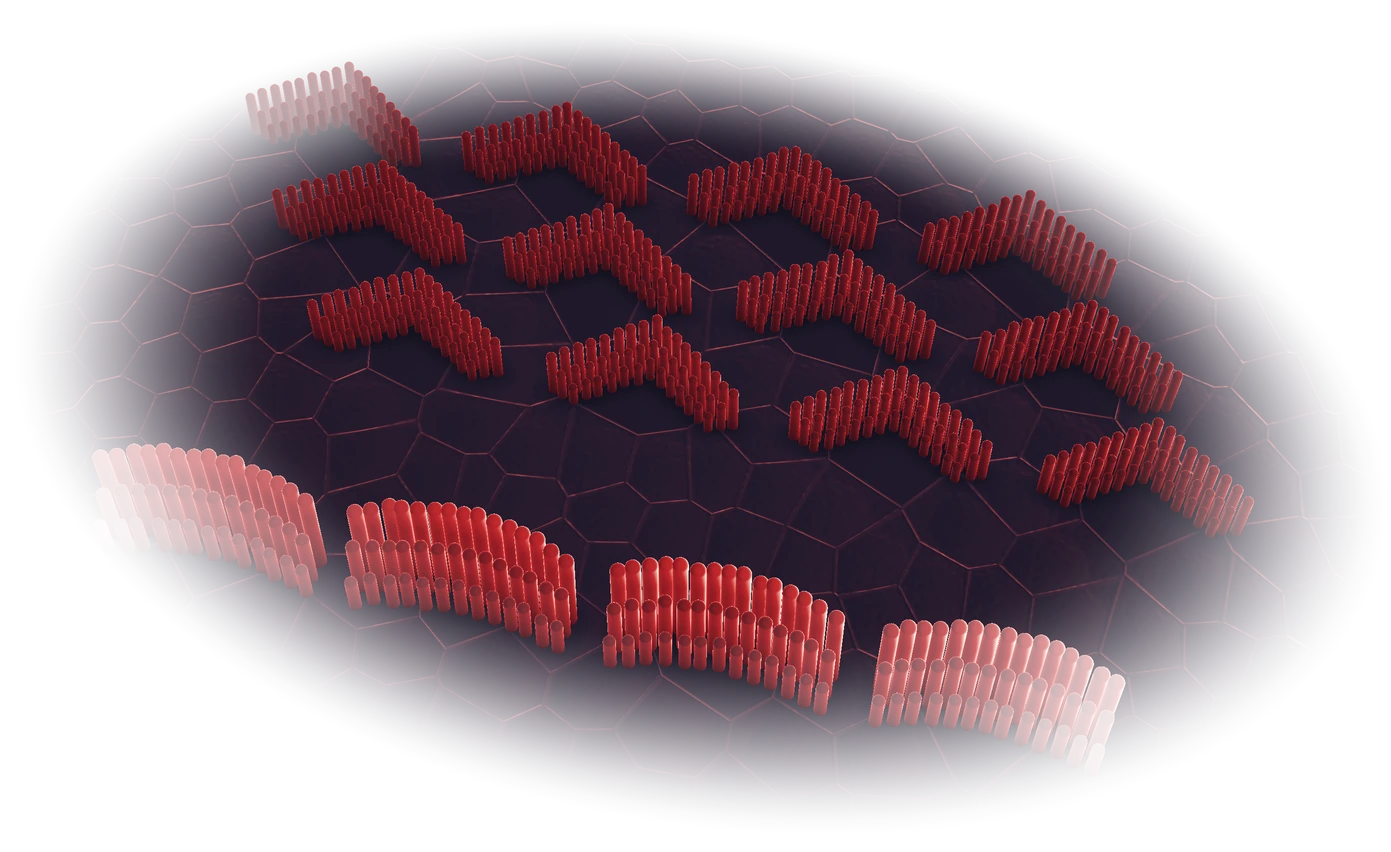
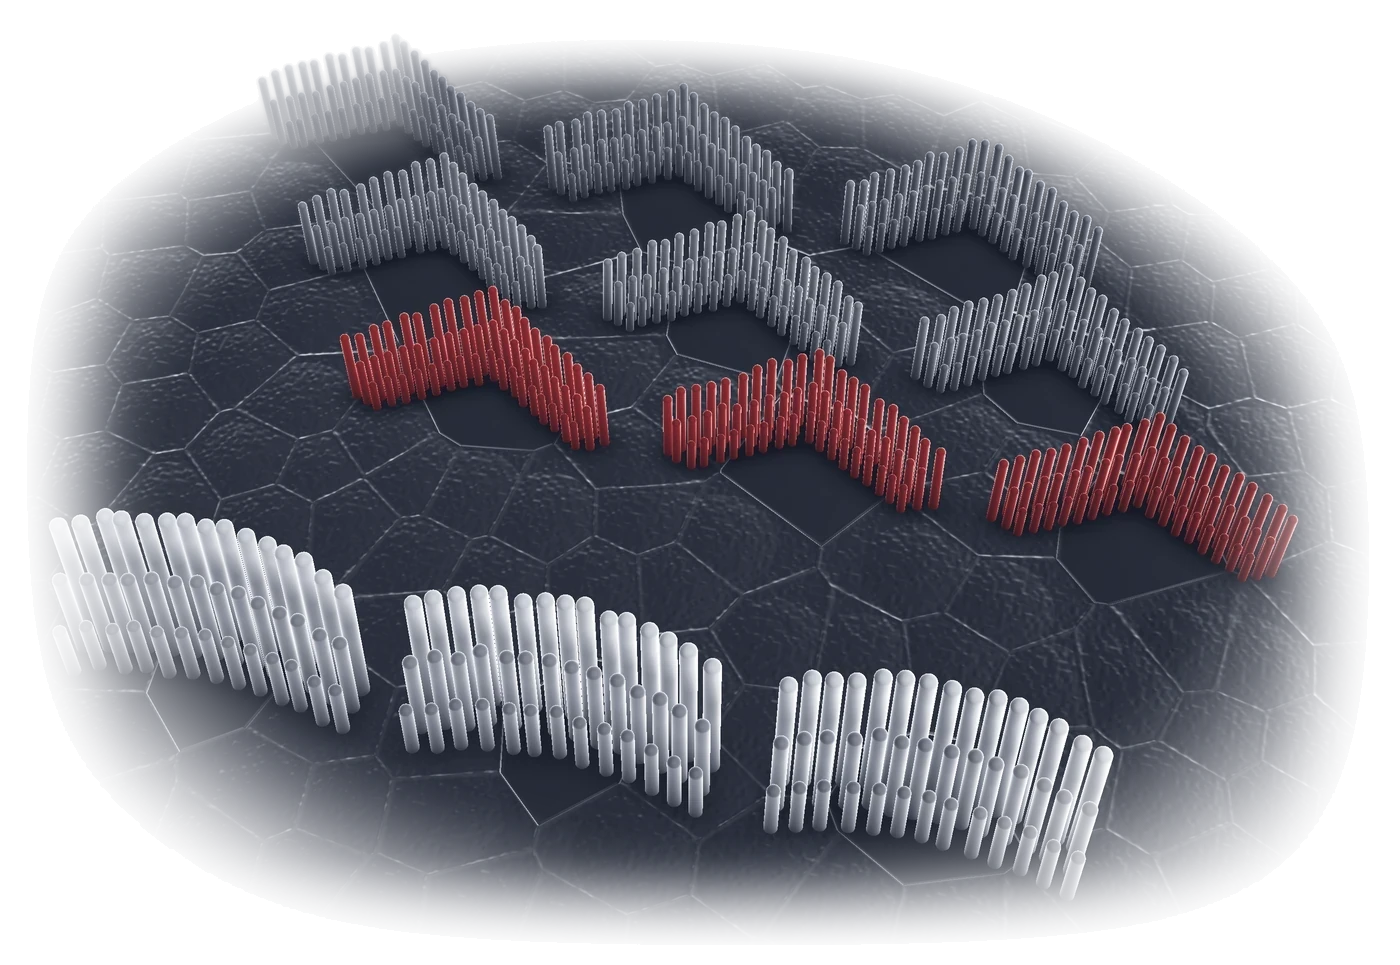
tingtherapeutics: re-render hero as a greyscale SEM of the cochlear sensory epithelium (crisp graded stereocilia, cuticular plates, one muted red OHC row, far-edge DOF, alpha zero at borders)
Claude-Session: https://claude.ai/code/session_014388NDNLsRMzdaC6cn6Z4v

diff --git a/_kit/src/tingtherapeutics.src.html b/_kit/src/tingtherapeutics.src.html
@@ -1059,20 +1059,20 @@ function unmask(s){if(!s)return;(s.masks||[]).forEach(function(m){m.style.overfl
 /*<R:field>*//* ================= HERO FIELD: a crafted render of Ting's own subject (HOME_BRIEF update 2c, PRINCIPLES DQ): the sensory
    hair cells of the cochlea that Ting's drugs protect, seen from above as in a scanning electron micrograph: a row of inner
    hair cells and three rows of outer hair cells, each crowned by its staircase bundle of stereocilia, on the mosaic of
-   supporting cells. Rendered offline by render.py in the logo's red #bf2227 on Ting's navy ink, baked with real alpha to
+   supporting cells. Rendered offline by render.py in cool SEM greys on Ting's navy ink, one row of outer hair cells in the logo red #bf2227, baked with real alpha to
    hero.webp; here it breathes in a slow Ken Burns drift. It moves on its own, so no pointer response (CZ). On phones it
    sits in the top band and fades into the ink above the text (CW). ================= */
 var field=(function(){
   var cv=$("#field"),c=cv.getContext("2d"),dpr=1,w=0,h=0,running=false,raf=0,t0=performance.now(),shown=false;
   var IN={v:1},dim=1,dimT=1,SP={v:0},G=null,img=new Image(),ok=false;
-  var BG="#0b0f1a",AR=1391/852;
+  var BG="#0b0f1a",AR=1400/965;
   img.decoding="async";img.onload=function(){ok=true;if(!running)frame(true)};img.src="hero.webp";
   function sm(x){x=x<0?0:x>1?1:x;return x*x*(3-2*x)}
   function geo(){
     var side=Math.max(Math.min(72,Math.max(16,w*.042)),(w-(w>=1800?1560:1320))/2),cw=w-2*side,mob=w<861;
     var iw,ih,kx,ky,U;
     if(mob){U=Math.min(h*.36,w*.78);ih=Math.min(U-96,w*.92/AR);iw=ih*AR;kx=w*.5;ky=84+ih/2}
-    else{iw=Math.min(cw*.48,h*.86*AR,1391);ih=iw/AR;kx=side+cw*.76;ky=h*.54}
+    else{iw=Math.min(cw*.46,h*.8*AR,1400);ih=iw/AR;kx=side+cw*.76;ky=h*.54}
     return {mob:mob,side:side,cw:cw,U:U,ih:ih,iw:iw,kx:kx,ky:ky,bh:mob?U:h};
   }
   function size(){dpr=Math.min(window.devicePixelRatio||1,2);w=document.documentElement.clientWidth||innerWidth;h=innerHeight;cv.width=Math.round(w*dpr);cv.height=Math.round(h*dpr);G=geo();if(!running)frame(true)}
@@ -1090,12 +1090,12 @@ var field=(function(){
       /* a low oxblood glow across the WHOLE canvas (never only inside the image rect), so no edge can read as a box (DJ) */
       var ggx=G.kx,ggy=G.mob?G.bh*.5:h*.52,ggr=Math.max(w,h)*.7;
       var ag=c.createRadialGradient(ggx,ggy,0,ggx,ggy,ggr);
-      ag.addColorStop(0,"rgba(52,18,30,"+(.45*e).toFixed(3)+")");ag.addColorStop(.55,"rgba(26,16,30,"+(.22*e).toFixed(3)+")");ag.addColorStop(1,"rgba(11,15,26,0)");
+      ag.addColorStop(0,"rgba(30,38,56,"+(.45*e).toFixed(3)+")");ag.addColorStop(.55,"rgba(20,26,40,"+(.22*e).toFixed(3)+")");ag.addColorStop(1,"rgba(11,15,26,0)");
       c.fillStyle=ag;c.fillRect(0,0,w,h);
       c.globalAlpha=e;c.drawImage(img,x,y,dw,dh);
       /* a faint sweep of light across the bundles, like the beam passing over the specimen */
       var pu=.5+.5*Math.sin(t*Math.PI*2/13),px=x+dw*(.25+.5*pu),py=y+dh*.5,pr=dw*.3;
-      var rg=c.createRadialGradient(px,py,0,px,py,pr);rg.addColorStop(0,"rgba(255,206,196,"+(.035+.03*pu).toFixed(3)+")");rg.addColorStop(1,"rgba(255,206,196,0)");
+      var rg=c.createRadialGradient(px,py,0,px,py,pr);rg.addColorStop(0,"rgba(226,232,242,"+(.035+.03*pu).toFixed(3)+")");rg.addColorStop(1,"rgba(226,232,242,0)");
       c.fillStyle=rg;c.fillRect(px-pr,py-pr,pr*2,pr*2);c.globalAlpha=1;
       if(!G.mob){
         /* the headline side stays quiet (DI): a long ink wash from the left, soft top and base */

diff --git a/tingtherapeutics/index.html b/tingtherapeutics/index.html
@@ -1627,20 +1627,20 @@ function unmask(s){if(!s)return;(s.masks||[]).forEach(function(m){m.style.overfl
 /*<R:field>*//* ================= HERO FIELD: a crafted render of Ting's own subject (HOME_BRIEF update 2c, PRINCIPLES DQ): the sensory
    hair cells of the cochlea that Ting's drugs protect, seen from above as in a scanning electron micrograph: a row of inner
    hair cells and three rows of outer hair cells, each crowned by its staircase bundle of stereocilia, on the mosaic of
-   supporting cells. Rendered offline by render.py in the logo's red #bf2227 on Ting's navy ink, baked with real alpha to
+   supporting cells. Rendered offline by render.py in cool SEM greys on Ting's navy ink, one row of outer hair cells in the logo red #bf2227, baked with real alpha to
    hero.webp; here it breathes in a slow Ken Burns drift. It moves on its own, so no pointer response (CZ). On phones it
    sits in the top band and fades into the ink above the text (CW). ================= */
 var field=(function(){
   var cv=$("#field"),c=cv.getContext("2d"),dpr=1,w=0,h=0,running=false,raf=0,t0=performance.now(),shown=false;
   var IN={v:1},dim=1,dimT=1,SP={v:0},G=null,img=new Image(),ok=false;
-  var BG="#0b0f1a",AR=1391/852;
+  var BG="#0b0f1a",AR=1400/965;
   img.decoding="async";img.onload=function(){ok=true;if(!running)frame(true)};img.src="hero.webp";
   function sm(x){x=x<0?0:x>1?1:x;return x*x*(3-2*x)}
   function geo(){
     var side=Math.max(Math.min(72,Math.max(16,w*.042)),(w-(w>=1800?1560:1320))/2),cw=w-2*side,mob=w<861;
     var iw,ih,kx,ky,U;
     if(mob){U=Math.min(h*.36,w*.78);ih=Math.min(U-96,w*.92/AR);iw=ih*AR;kx=w*.5;ky=84+ih/2}
-    else{iw=Math.min(cw*.48,h*.86*AR,1391);ih=iw/AR;kx=side+cw*.76;ky=h*.54}
+    else{iw=Math.min(cw*.46,h*.8*AR,1400);ih=iw/AR;kx=side+cw*.76;ky=h*.54}
     return {mob:mob,side:side,cw:cw,U:U,ih:ih,iw:iw,kx:kx,ky:ky,bh:mob?U:h};
   }
   function size(){dpr=Math.min(window.devicePixelRatio||1,2);w=document.documentElement.clientWidth||innerWidth;h=innerHeight;cv.width=Math.round(w*dpr);cv.height=Math.round(h*dpr);G=geo();if(!running)frame(true)}
@@ -1658,12 +1658,12 @@ var field=(function(){
       /* a low oxblood glow across the WHOLE canvas (never only inside the image rect), so no edge can read as a box (DJ) */
       var ggx=G.kx,ggy=G.mob?G.bh*.5:h*.52,ggr=Math.max(w,h)*.7;
       var ag=c.createRadialGradient(ggx,ggy,0,ggx,ggy,ggr);
-      ag.addColorStop(0,"rgba(52,18,30,"+(.45*e).toFixed(3)+")");ag.addColorStop(.55,"rgba(26,16,30,"+(.22*e).toFixed(3)+")");ag.addColorStop(1,"rgba(11,15,26,0)");
+      ag.addColorStop(0,"rgba(30,38,56,"+(.45*e).toFixed(3)+")");ag.addColorStop(.55,"rgba(20,26,40,"+(.22*e).toFixed(3)+")");ag.addColorStop(1,"rgba(11,15,26,0)");
       c.fillStyle=ag;c.fillRect(0,0,w,h);
       c.globalAlpha=e;c.drawImage(img,x,y,dw,dh);
       /* a faint sweep of light across the bundles, like the beam passing over the specimen */
       var pu=.5+.5*Math.sin(t*Math.PI*2/13),px=x+dw*(.25+.5*pu),py=y+dh*.5,pr=dw*.3;
-      var rg=c.createRadialGradient(px,py,0,px,py,pr);rg.addColorStop(0,"rgba(255,206,196,"+(.035+.03*pu).toFixed(3)+")");rg.addColorStop(1,"rgba(255,206,196,0)");
+      var rg=c.createRadialGradient(px,py,0,px,py,pr);rg.addColorStop(0,"rgba(226,232,242,"+(.035+.03*pu).toFixed(3)+")");rg.addColorStop(1,"rgba(226,232,242,0)");
       c.fillStyle=rg;c.fillRect(px-pr,py-pr,pr*2,pr*2);c.globalAlpha=1;
       if(!G.mob){
         /* the headline side stays quiet (DI): a long ink wash from the left, soft top and base */

diff --git a/_kit/home/tingtherapeutics/field.js b/_kit/home/tingtherapeutics/field.js
@@ -1,20 +1,20 @@
 /* ================= HERO FIELD: a crafted render of Ting's own subject (HOME_BRIEF update 2c, PRINCIPLES DQ): the sensory
    hair cells of the cochlea that Ting's drugs protect, seen from above as in a scanning electron micrograph: a row of inner
    hair cells and three rows of outer hair cells, each crowned by its staircase bundle of stereocilia, on the mosaic of
-   supporting cells. Rendered offline by render.py in the logo's red #bf2227 on Ting's navy ink, baked with real alpha to
+   supporting cells. Rendered offline by render.py in cool SEM greys on Ting's navy ink, one row of outer hair cells in the logo red #bf2227, baked with real alpha to
    hero.webp; here it breathes in a slow Ken Burns drift. It moves on its own, so no pointer response (CZ). On phones it
    sits in the top band and fades into the ink above the text (CW). ================= */
 var field=(function(){
   var cv=$("#field"),c=cv.getContext("2d"),dpr=1,w=0,h=0,running=false,raf=0,t0=performance.now(),shown=false;
   var IN={v:1},dim=1,dimT=1,SP={v:0},G=null,img=new Image(),ok=false;
-  var BG="#0b0f1a",AR=1391/852;
+  var BG="#0b0f1a",AR=1400/965;
   img.decoding="async";img.onload=function(){ok=true;if(!running)frame(true)};img.src="hero.webp";
   function sm(x){x=x<0?0:x>1?1:x;return x*x*(3-2*x)}
   function geo(){
     var side=Math.max(Math.min(72,Math.max(16,w*.042)),(w-(w>=1800?1560:1320))/2),cw=w-2*side,mob=w<861;
     var iw,ih,kx,ky,U;
     if(mob){U=Math.min(h*.36,w*.78);ih=Math.min(U-96,w*.92/AR);iw=ih*AR;kx=w*.5;ky=84+ih/2}
-    else{iw=Math.min(cw*.48,h*.86*AR,1391);ih=iw/AR;kx=side+cw*.76;ky=h*.54}
+    else{iw=Math.min(cw*.46,h*.8*AR,1400);ih=iw/AR;kx=side+cw*.76;ky=h*.54}
     return {mob:mob,side:side,cw:cw,U:U,ih:ih,iw:iw,kx:kx,ky:ky,bh:mob?U:h};
   }
   function size(){dpr=Math.min(window.devicePixelRatio||1,2);w=document.documentElement.clientWidth||innerWidth;h=innerHeight;cv.width=Math.round(w*dpr);cv.height=Math.round(h*dpr);G=geo();if(!running)frame(true)}
@@ -32,12 +32,12 @@ var field=(function(){
       /* a low oxblood glow across the WHOLE canvas (never only inside the image rect), so no edge can read as a box (DJ) */
       var ggx=G.kx,ggy=G.mob?G.bh*.5:h*.52,ggr=Math.max(w,h)*.7;
       var ag=c.createRadialGradient(ggx,ggy,0,ggx,ggy,ggr);
-      ag.addColorStop(0,"rgba(52,18,30,"+(.45*e).toFixed(3)+")");ag.addColorStop(.55,"rgba(26,16,30,"+(.22*e).toFixed(3)+")");ag.addColorStop(1,"rgba(11,15,26,0)");
+      ag.addColorStop(0,"rgba(30,38,56,"+(.45*e).toFixed(3)+")");ag.addColorStop(.55,"rgba(20,26,40,"+(.22*e).toFixed(3)+")");ag.addColorStop(1,"rgba(11,15,26,0)");
       c.fillStyle=ag;c.fillRect(0,0,w,h);
       c.globalAlpha=e;c.drawImage(img,x,y,dw,dh);
       /* a faint sweep of light across the bundles, like the beam passing over the specimen */
       var pu=.5+.5*Math.sin(t*Math.PI*2/13),px=x+dw*(.25+.5*pu),py=y+dh*.5,pr=dw*.3;
-      var rg=c.createRadialGradient(px,py,0,px,py,pr);rg.addColorStop(0,"rgba(255,206,196,"+(.035+.03*pu).toFixed(3)+")");rg.addColorStop(1,"rgba(255,206,196,0)");
+      var rg=c.createRadialGradient(px,py,0,px,py,pr);rg.addColorStop(0,"rgba(226,232,242,"+(.035+.03*pu).toFixed(3)+")");rg.addColorStop(1,"rgba(226,232,242,0)");
       c.fillStyle=rg;c.fillRect(px-pr,py-pr,pr*2,pr*2);c.globalAlpha=1;
       if(!G.mob){
         /* the headline side stays quiet (DI): a long ink wash from the left, soft top and base */

diff --git a/_kit/home/tingtherapeutics/render.py b/_kit/home/tingtherapeutics/render.py
@@ -20,19 +20,20 @@ rng = np.random.default_rng(7)
 def nrm(v): return v / np.linalg.norm(v, axis=-1, keepdims=True)
 
 # ---------------- layout (world: x along the cochlear spiral, z radial (outer = +z), y up) ----------------
-caps = []          # (base xyz, tip xyz, radius)
+caps = []          # (base xyz, tip xyz, radius, accent)
+ACCROW = [False]
 cells = []         # (x, z, kind) kind 0 = supporting, 1 = OHC, 2 = IHC
 def stereo(base, h, r, lean):
     b = np.array([base[0], 0.0, base[1]]); t = b + np.array([lean[0] * h, h, lean[1] * h])
-    caps.append((b, t, r))
+    caps.append((b, t, r, ACCROW[0]))
 
-NX = 4
+NX = 3
 # inner hair cells: one row in front (toward the camera), nearly straight bundles, tallest row on the outer side
 for i in range(NX):
     cx = (i - (NX - 1) / 2) * 1.0 + 0.1; cz = -1.05
     cells.append((cx, cz - 0.02, 2))
     lean = (rng.normal(0, .015), 0.07)
-    for k, (h, r) in enumerate([(0.44, 0.03), (0.29, 0.027), (0.17, 0.024)]):
+    for k, (h, r) in enumerate([(0.5, 0.024), (0.33, 0.021), (0.2, 0.019)]):
         n = 15 - k
         for j in range(n):
             u = (j - (n - 1) / 2) / ((n - 1) / 2)
@@ -42,18 +43,19 @@ for i in range(NX):
 for row in range(3):
     for i in range(NX):
         cx = (i - (NX - 1) / 2) * 1.0 + (row - 1) * 0.33; cz = 0.05 + row * 0.5
-        cells.append((cx, cz - 0.06, 1))
+        cells.append((cx, cz - 0.06, 1)); ACCROW[0] = (row == 0)
         ang = np.radians(rng.uniform(56, 62)); lean = (rng.normal(0, .02), 0.06)
-        for k, (h, r) in enumerate([(0.25, 0.021), (0.165, 0.019), (0.1, 0.018)]):
-            vx, vz = cx, cz + 0.12 - k * 0.05
-            n = 9 - k
+        for k, (h, r) in enumerate([(0.3, 0.0145), (0.2, 0.0135), (0.12, 0.0125)]):
+            vx, vz = cx, cz + 0.12 - k * 0.042
+            n = 11 - k
             for side in (-1, 1):
                 for j in range(n):
-                    s = j * 0.056
+                    s = j * 0.047
                     if side < 0 and j == 0: s = 0
                     x = vx + side * np.sin(ang) * s; z = vz - np.cos(ang) * s
                     if side > 0 and j == 0: continue
                     stereo((x + rng.normal(0, .003), z + rng.normal(0, .003)), h * (1 - .18 * (s / 0.5)) * rng.uniform(.96, 1.04), r, lean)
+ACCROW[0] = False
 # supporting cells: a jittered lattice between the hair cells (Deiters', pillar and Hensen's heads)
 for gz in np.arange(-1.9, 2.6, 0.26):
     for gx in np.arange(-3.2, 3.2, 0.26):
@@ -64,7 +66,7 @@ CX = np.array([c[0] for c in cells]); CZ = np.array([c[1] for c in cells]); CK =
 
 # ---------------- camera ----------------
 target = np.array([0.0, 0.12, 0.05])
-az, el, dist, fov = np.radians(-14), np.radians(56), 8.1, np.radians(31)
+az, el, dist, fov = np.radians(-14), np.radians(52), 6.1, np.radians(31)
 cam = target + dist * np.array([np.sin(az) * np.cos(el), np.sin(el), -np.cos(az) * np.cos(el)])
 fw = nrm(target - cam); rt = nrm(np.cross(fw, [0, 1.0, 0])); up = np.cross(rt, fw)
 asp = W / H; th = np.tan(fov / 2)
@@ -96,9 +98,9 @@ def surf_h(x, z):
     edge = d2 - d1
     hc = kind > 0
     rad = np.where(hc, 0.36, 0.17)
-    dome = np.where(hc, 0.035, 0.028) * np.clip(1 - (d1 / rad) ** 2, 0, 1)
-    ridge = 0.012 * np.exp(-(edge / 0.012) ** 2)
-    mv = 0.004 * vn(x * 55, z * 55) * (~hc) + 0.0015 * vn(x * 23 + 9, z * 23)
+    dome = np.where(hc, 0.05, 0.03) * np.clip(1 - (d1 / rad) ** 2, 0, 1)
+    ridge = 0.008 * np.exp(-(edge / 0.012) ** 2)
+    mv = 0.006 * vn(x * 75, z * 75) * (~hc) + 0.0015 * vn(x * 23 + 9, z * 23)
     return (dome + ridge + mv).reshape(sh), kind.reshape(sh), edge.reshape(sh)
 valid = (RD[..., 1] < 0) & (tP < 60)
 gx, gz = P[..., 0], P[..., 2]
@@ -110,7 +112,7 @@ NG = nrm(np.stack([-(hx - h0) / e, np.ones_like(h0), -(hz - h0) / e], -1))
 # ambient occlusion of the surface around stereocilia bases: a splatted, blurred base map in xz
 AO_N, AO_X0, AO_X1, AO_Z0, AO_Z1 = 1400, -3.2, 3.2, -2.2, 2.6
 ao = Image.new('L', (AO_N, AO_N), 0); pix = ao.load()
-for b, t, r in caps:
+for b, t, r, _a in caps:
     ix = int((b[0] - AO_X0) / (AO_X1 - AO_X0) * AO_N); iz = int((b[2] - AO_Z0) / (AO_Z1 - AO_Z0) * AO_N)
     for dx in range(-3, 4):
         for dz in range(-3, 4):
@@ -124,8 +126,8 @@ def aos(x, z):
 AOg = 1 - 0.6 * aos(gx, gz)
 
 # ---------------- stereocilia: analytic ray-capsule intersection inside each projected bbox ----------------
-ZB = np.where(valid, tP, np.inf); NB = NG.copy(); HIT = np.zeros((H, W), bool); HF = np.zeros((H, W)); CB = np.zeros((H, W, 2))
-for b, t, r in caps:
+ZB = np.where(valid, tP, np.inf); NB = NG.copy(); HIT = np.zeros((H, W), bool); ACC = np.zeros((H, W), bool); HF = np.zeros((H, W)); CB = np.zeros((H, W, 2))
+for b, t, r, acc in caps:
     pts = [b + np.array(o) for o in [(-r, 0, -r), (r, 0, r)]] + [t + np.array(o) for o in [(-r, r, -r), (r, r, r), (-r, r, r), (r, r, -r)]] + [b + np.array([r, 0, -r]), b + np.array([-r, 0, r])]
     sx, sy = zip(*[project(p) for p in pts])
     x0, x1 = max(int(min(sx)) - 2, 0), min(int(max(sx)) + 3, W); y0, y1 = max(int(min(sy)) - 2, 0), min(int(max(sy)) + 3, H)
@@ -150,7 +152,7 @@ for b, t, r in caps:
     s = np.clip(((p - b) @ ba) / baba, 0, 1)
     cl = b + s[..., None] * ba
     n = nrm(p - cl)
-    zb[win] = tt[win]; NB[y0:y1, x0:x1][win] = n[win]; HIT[y0:y1, x0:x1][win] = True
+    zb[win] = tt[win]; NB[y0:y1, x0:x1][win] = n[win]; HIT[y0:y1, x0:x1][win] = True; ACC[y0:y1, x0:x1][win] = acc
     HF[y0:y1, x0:x1][win] = s[win] * (ba[1] / 0.44)
     CB[y0:y1, x0:x1][win] = np.array([b[0], b[2]])
 
@@ -164,18 +166,18 @@ I = 0.1 + 0.95 * rim + 0.3 * ndl
 # stereocilia: darker toward their base (occluded by neighbours), bright edges and tips
 sAO = 0.42 + 0.58 * np.clip(HF / 0.55, 0, 1) ** 0.6
 tip = np.clip((HF - 0.75) / 0.25, 0, 1) * np.clip(ndl * 1.4, 0, 1)
-I = np.where(HIT, I * sAO * 1.32 + 0.25 * tip * (HF > 0.3), I * AOg * 0.9)
+I = np.where(HIT, I * sAO * 1.35 + 0.25 * tip * (HF > 0.3), I * AOg * 0.82)
 # surface texture: junction ridges catch the beam a little more; hair-cell plates are smoother and slightly darker
 I = np.where(HIT, I, I * np.where(kind > 0, 0.86, 1.0) + 0.05 * np.exp(-(edge / 0.01) ** 2))
 I = np.clip(I, 0, 1.2)
 
 # fade: an elliptical, long-eased falloff in world xz around the patch (subject whole, edges melt into the ink)
 fx = np.where(HIT, CB[..., 0], gx); fz = np.where(HIT, CB[..., 1], gz)
-rr = np.sqrt(((fx - 0.05) / 2.75) ** 2 + ((fz - 0.12) / 1.85) ** 2)
-fade = np.clip(1 - (rr - 0.62) / 0.42, 0, 1); fade = fade * fade * (3 - 2 * fade)
+rr = np.sqrt(((fx - 0.05) / 2.15) ** 2 + ((fz - 0.0) / 1.75) ** 2)
+fade = np.clip(1 - (rr - 0.72) / 0.36, 0, 1); fade = fade * fade * (3 - 2 * fade)
 alpha = np.where(valid | HIT, fade, 0.0)
 # slight depth haze toward the back
-depth = np.clip((ZB - 6.0) / 3.5, 0, 1); I = I * (1 - 0.3 * depth)
+depth = np.clip((ZB - 6.3) / 1.6, 0, 1); I = I * (1 - 0.22 * depth)
 
 # gradient maps: the cell surface in cool navy-plum, the stereocilia in Ting red to a warm pale (tonal depth, not one wash)
 def gmap(v, stops):
@@ -185,13 +187,20 @@ def gmap(v, stops):
         out = np.where(m[..., None], np.array(c0) * (1 - f) + np.array(c1) * f, out)
     return out
 v = np.clip(I, 0, 1.05)
-SURF = [(0.0, (11, 15, 26)), (0.25, (34, 26, 44)), (0.5, (82, 38, 54)), (0.75, (168, 70, 76)), (1.05, (236, 170, 160))]
-CIL = [(0.0, (16, 14, 24)), (0.25, (70, 18, 28)), (0.5, (150, 28, 36)), (0.7, (198, 40, 44)), (0.88, (242, 150, 134)), (1.05, (255, 240, 232))]
-rgb = np.where(HIT[..., None], gmap(v, CIL), gmap(v, SURF))
+SURF = [(0.0, (11, 15, 26)), (0.3, (44, 49, 62)), (0.6, (112, 117, 130)), (0.85, (190, 194, 202)), (1.05, (242, 243, 246))]
+CIL = [(0.0, (14, 17, 26)), (0.3, (62, 67, 80)), (0.55, (138, 143, 156)), (0.8, (212, 215, 222)), (1.05, (252, 252, 253))]
+ACL = [(0.0, (16, 14, 24)), (0.3, (84, 34, 42)), (0.55, (156, 46, 52)), (0.8, (222, 150, 146)), (1.05, (252, 238, 236))]
+rgb = np.where(HIT[..., None], np.where(ACC[..., None], gmap(v, ACL), gmap(v, CIL)), gmap(v, SURF))
 rgba = np.concatenate([rgb / 255, alpha[..., None]], -1)
 im = Image.fromarray((np.clip(rgba, 0, 1) * 255).astype(np.uint8), 'RGBA')
+dm = Image.fromarray((np.clip((ZB - 6.6) / 1.2, 0, 1) * 255).astype(np.uint8), 'L')
+im = Image.composite(im.filter(ImageFilter.GaussianBlur(2.2 * SS)), im, dm)
 if SS != 1: im = im.resize((FW, FH), Image.LANCZOS)
 bb = im.getchannel('A').point(lambda a: 255 if a > 4 else 0).getbbox()
 if bb: m = int(.02 * FW); im = im.crop((max(bb[0] - m, 0), max(bb[1] - m, 0), min(bb[2] + m, FW), min(bb[3] + m, FH)))
+A = np.asarray(im.getchannel('A')).astype(float)
+hh_, ww_ = A.shape; sm_ = lambda t: np.clip(t, 0, 1) ** 2 * (3 - 2 * np.clip(t, 0, 1))
+A = A * (sm_(np.arange(ww_) / (.1 * ww_)) * sm_((ww_ - 1 - np.arange(ww_)) / (.1 * ww_)))[None, :] * (sm_(np.arange(hh_) / (.1 * hh_)) * sm_((hh_ - 1 - np.arange(hh_)) / (.12 * hh_)))[:, None]
+A = np.where(A < 8, 0, A); im.putalpha(Image.fromarray(A.astype(np.uint8)))   # no faint alpha floor that could outline the image rect
 im.save(OUT)
 print('saved', OUT, im.size, 'caps', len(caps))

diff --git a/_kit/dossiers/tingtherapeutics.md b/_kit/dossiers/tingtherapeutics.md
@@ -5,5 +5,5 @@
 - Activity: 2026-10-21 TT004 China IND approved, Phase Ib at Eye and ENT Hospital of Fudan University (https://www.prlog.org/13179485-ting-therapeutics-advances-tt004-into-phase-ib-trial-to-reduce-cisplatin-toxicity.html); FY2026 NIH award 5R44DC019065-05 ($524,299) https://reporter.nih.gov/project-details/11380822; Nov 11-12 2026 CEO moderates panel at BioPharma Drug Discovery Nexus.
 - Bad site: WordPress template, maroon serif headline beside a stock face with a HUD/sound-wave overlay, small red button, black top bar.
 - Palette: logo2.png (black slab "Ting", red #bf2227 arcs and THERAPEUTICS) and live-site navy #2b3a5e headings; Karla is their site text face.
-- Hero: crafted render (render.py, no stock photo, DQ): SEM-style organ of Corti, one row of inner and three rows of outer hair cells with stereocilia bundles — the cells Ting's drugs protect.
+- Hero: crafted render (render.py, no stock photo, DQ): SEM-style cochlear sensory epithelium in cool greys, one row of inner and three rows of outer hair cells with V-shaped stereocilia bundles graded in height, cuticular plates and microvillar supporting cells; one outer-hair-cell row in a muted Ting red; shallow DOF only at the far edge; real alpha, zero at every border. (Re-rendered after coordinator review: v1 red-on-red read as gummy chevrons.)
 - Pipeline stages read from their /pipeline chart (TT004 80% = Phase Ib; TT005/TT001/TT002/TT003 in IND-enabling column).
